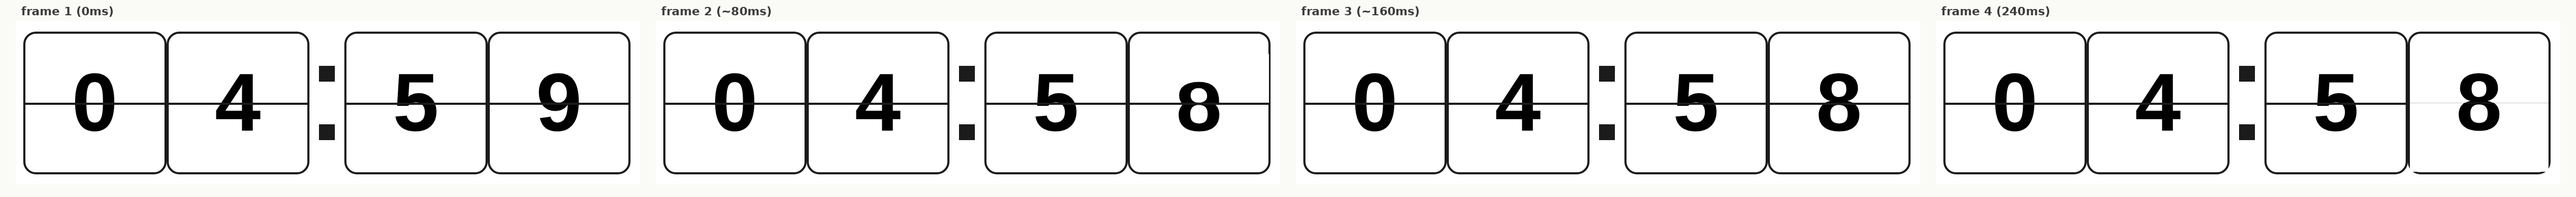
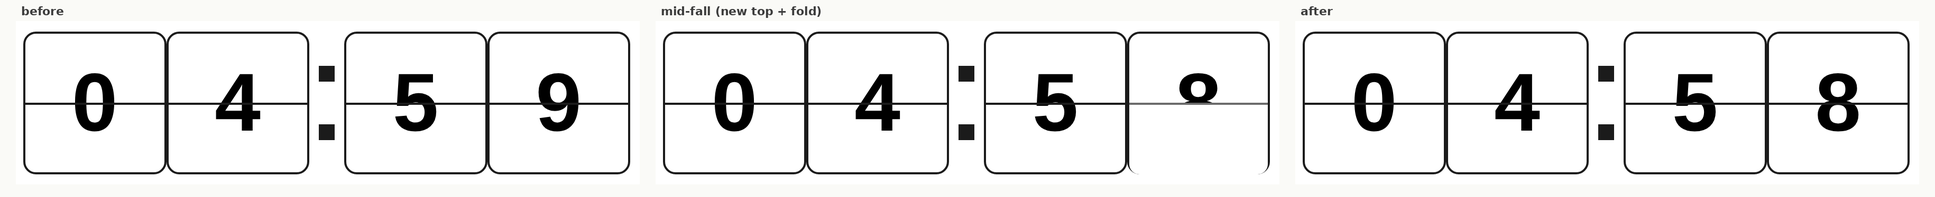
Flip FX v2: JS-timed 2-stage repaints replace CSS animation (Kindle collapses animations to final frame); 420ms fold cover; simpler, no 3D; ?v=8

diff --git a/kpomo-fancy/main.js b/kpomo-fancy/main.js
@@ -8,34 +8,16 @@ var remaining = 0;       // seconds left in current session
 var sessionTotal = 0;    // full length of current session
 var inBreak = false;     // false = work, true = break
 var tiles = [];         // the four digit elements, cached at build time
-var flaps = [];         // split-flap FX elements, parallel to tiles
+var flaps = [];         // fold-cover elements, parallel to tiles
 var fxOn = true;        // user toggle (Flip FX checkbox)
-var flipSupport = false;// 3D + animation capability, detected at load
 var fxReady = false;    // no flipping during the very first paint
-
-// Detect what this Kindle's WebKit can do. If anything is missing we fall
-// back to a plain digit swap (the old behaviour) — never broken graphics.
-function detectFlip() {
-  var s = document.createElement('div').style;
-  flipSupport = (('webkitAnimation' in s) || ('animation' in s)) &&
-                ('webkitTransform' in s) &&
-                ('webkitBackfaceVisibility' in s);
-}
+var FX_STEP_MS = 420;   // pause between the two e-ink updates
 
 // Build the flip-clock tiles once: MM : SS  (4 tiles + 1 colon).
 function buildClock() {
   var clock = document.getElementById('clock');
   if (!clock || clock.childNodes.length > 0) return;
 
-  function half(cls, txt) {
-    var h = document.createElement('div');
-    h.className = cls;
-    var n = document.createElement('div');
-    n.className = 'num-copy';
-    n.textContent = txt;
-    h.appendChild(n);
-    return h;
-  }
   function tile() {
     var d = document.createElement('div');
     d.className = 'tile';
@@ -46,17 +28,14 @@ function buildClock() {
     var hinge = document.createElement('div'); // the split-flap hinge line
     hinge.className = 'hinge';
     d.appendChild(hinge);
-    // The falling flap: front = old digit top half, back = new digit bottom
-    // half. Hidden until a flip runs; e-ink sees only 3 static frames.
+    // The fold cover: a plain white "falling card face" that hides the bottom
+    // half during stage 1 of the flip. No 3D, no CSS animation — JS timed
+    // style changes, so every stage is a real repaint the e-ink shows.
     var flap = document.createElement('div');
     flap.className = 'flap';
-    var front = half('flap-face flap-front', '0');
-    var back = half('flap-face flap-back', '0');
-    flap.appendChild(front);
-    flap.appendChild(back);
     d.appendChild(flap);
     clock.appendChild(d);
-    flaps.push({ root: flap, front: front.firstChild, back: back.firstChild });
+    flaps.push({ root: flap });
     return num;                                 // updateDisplay writes to tile-num
   }
   function colon() {
@@ -101,34 +80,26 @@ function updateDisplay() {
 }
 
 // Write a digit into tile i. Only tiles whose digit CHANGED animate, and
-// only when the FX is on + supported; everything else is a plain swap.
+// only when the FX is on; everything else is a plain swap.
 function setDigit(i, v) {
   var t = tiles[i];
   if (String(t.textContent) === String(v)) return;
-  if (fxReady && fxOn && flipSupport) flipCard(i, String(t.textContent), String(v));
-  t.textContent = v;   // base card shows the NEW digit immediately; the flap
-                       // (front = old top half) still covers the top until it falls
+  if (fxReady && fxOn) flipCard(i, v);
+  else t.textContent = v;
 }
 
-// E-ink-friendly split-flap: exactly 3 rendered frames via step-end timing —
-// 0deg (flap over old top, no visual change), -90deg (edge = one partial
-// refresh), -180deg (flap landed showing new bottom half = one more).
-function flipCard(i, oldDigit, newDigit) {
+// E-ink friendly split-flap, driven by two JS-timed repaints (CSS animations
+// get collapsed to their final frame by the Kindle browser — this cannot be):
+// stage 1: top half of the card shows the NEW digit, the bottom half is
+//          covered by a white fold (looks like the card mid-fall);
+// stage 2 (FX_STEP_MS later): fold removed, new bottom revealed.
+function flipCard(i, v) {
   var f = flaps[i];
-  f.front.textContent = oldDigit;
-  f.back.textContent = newDigit;
+  tiles[i].textContent = v;       // stage 1 paint: new top, fold hides bottom
   f.root.style.display = 'block';
-  // restart the CSS animation (remove -> reflow -> re-add)
-  f.root.style.webkitAnimation = 'none';
-  f.root.style.animation = 'none';
-  void f.root.offsetWidth;
-  f.root.style.webkitAnimation = 'flapfall .24s step-end forwards';
-  f.root.style.animation = 'flapfall .24s step-end forwards';
   setTimeout(function () {
-    f.root.style.display = 'none';
-    f.root.style.webkitAnimation = 'none';
-    f.root.style.animation = 'none';
-  }, 260);
+    f.root.style.display = 'none'; // stage 2 paint: full new digit
+  }, FX_STEP_MS);
 }
 
 function toggleFlipFx() {
@@ -137,7 +108,6 @@ function toggleFlipFx() {
 }
 
 function onPageLoad() {
-  detectFlip();
   buildClock();
   updateDisplay();
   fxReady = true;   // first paint is static; flips start afterwards

diff --git a/kpomo-fancy/main.css b/kpomo-fancy/main.css
@@ -81,61 +81,21 @@ body {
   border-top: 3px solid #1b1b1b;
 }
 
-/* ---- Split-flap FX (e-ink friendly: 3 static frames, step-end) ----
-   The flap is the top half of the card. Its front shows the OLD digit's top
-   half, its back (pre-rotated 180) the NEW digit's bottom half. When the
-   digit changes, the flap falls about the hinge line. step-end forces only
-   0 / -90 / -180 deg to ever be rendered = two partial refreshes per flip. */
+/* ---- Split-flap FX (e-ink friendly: JS-timed 2-stage repaints) ----
+   .flap is a plain white "folded card face" covering the bottom half of the
+   card while the digit changes above it. No CSS animation, no 3D — the
+   Kindle browser collapses animations to their final frame, but a style
+   change behind setTimeout always repaints. Stage gap: FX_STEP_MS in main.js. */
 .flap {
   position: absolute;
   left: 0;
-  top: 0;
+  top: 50%;
   width: 100%;
   height: 50%;
   display: none;
-  -webkit-transform-origin: 50% 100%;
-  transform-origin: 50% 100%;
-  -webkit-transform-style: preserve-3d;
-  transform-style: preserve-3d;
-}
-.flap-face {
-  position: absolute;
-  left: 0;
-  top: 0;
-  width: 100%;
-  height: 100%;
-  overflow: hidden;
   background: #ffffff;
-  color: #000000;
-  font-size: 104px;
-  font-weight: 900;
-  text-align: center;
-  -webkit-backface-visibility: hidden;
-  backface-visibility: hidden;
-}
-.flap-back {
-  -webkit-transform: rotateX(180deg);
-  transform: rotateX(180deg);
-}
-.flap-face .num-copy {
-  position: absolute;
-  left: 0;
-  top: 0;
-  width: 100%;
-  line-height: 175px;
-}
-.flap-back .num-copy {
-  top: -88px;   /* reveal the bottom half of the digit */
-}
-@-webkit-keyframes flapfall {
-  0%   { -webkit-transform: rotateX(0deg); }
-  50%  { -webkit-transform: rotateX(-90deg); }
-  100% { -webkit-transform: rotateX(-180deg); }
-}
-@keyframes flapfall {
-  0%   { transform: rotateX(0deg); }
-  50%  { transform: rotateX(-90deg); }
-  100% { transform: rotateX(-180deg); }
+  border-top: 3px solid #6b6b6b;
+  border-radius: 0 0 13px 13px;
 }
 
 /* Colon = two SQUARE dots stacked (classic flip-clock separator). */
@@ -297,9 +257,6 @@ body {
   #settings .setting { padding: 8px 16px; }
   #settings .setting-input button { width: 38px; height: 38px; line-height: 38px; font-size: 20px; }
   #settings input[type="number"] { width: 56px; height: 38px; font-size: 18px; }
-  .flap-face { font-size: 72px; }
-  .flap-face .num-copy { line-height: 118px; }
-  .flap-back .num-copy { top: -59px; }
   #cue { padding-top: 22%; }
   #cue-message { font-size: 48px; }
 }

diff --git a/kpomo-fancy/index.html b/kpomo-fancy/index.html
@@ -6,8 +6,8 @@
   <meta charset="utf-8">
   <script src="js/polyfill.min.js"></script>
   <script src="js/sdk.js"></script>
-  <script src="main.js?v=7"></script>
-  <link href="main.css?v=7" rel="stylesheet">
+  <script src="main.js?v=8"></script>
+  <link href="main.css?v=8" rel="stylesheet">
   <title>Kpomo-fancy</title>
 
   <!-- Fullscreen: hide the chrome/status bar. "blank" template removes the bar. -->

diff --git a/README.md b/README.md
@@ -20,11 +20,11 @@
 - **Split-flap flip clock** — large white digit cards with a hinge seam across the middle,
   square-dot colon, and a bold poster wordmark. Tuned for e-ink: no animation, no shadows,
   no gradients — crisp and ghost-free
-- **Split-flap page-turn FX (optional)** — digits *physically flip* on the hinge like a real
-  airport board. Built for e-ink: the fall is a **3-frame discrete animation** (step-end, ~240ms)
-  so each flip is just two fast partial refreshes — no smooth-motion blur, minimal ghosting.
-  Only the digit that changed animates. Toggle it in the app (Flip FX), auto-disabled on
-  WebKits without 3D support
+- **Split-flap page-turn FX (optional)** — digits *physically flip* like a real airport board.
+  Built for slow e-ink: the flip is **two JS-timed repaints** (~420ms apart) — new top half +
+  a white "falling card" fold covering the bottom, then the fold lifts to reveal the new
+  digit. CSS animations are invisible on Kindle (the browser skips intermediate frames),
+  explicit repaints are not. Only the digit that changed animates. Toggle in-app (Flip FX)
 - **50 / 5 by default** — 50-minute focus sessions, 5-minute breaks (adjustable in the UI)
 - **Manual advance** — when a session ends the timer *stops*; the mode label flips to the
   next session and you press Start when you're ready. No auto-start
@@ -40,7 +40,7 @@
 
 ## Gallery
 
-The page-turn animation — 4 frames total, e-ink friendly:
+The page-turn animation — two visible repaints, e-ink friendly:
 
 ![Flip FX](preview/flip-fx.gif)
 
